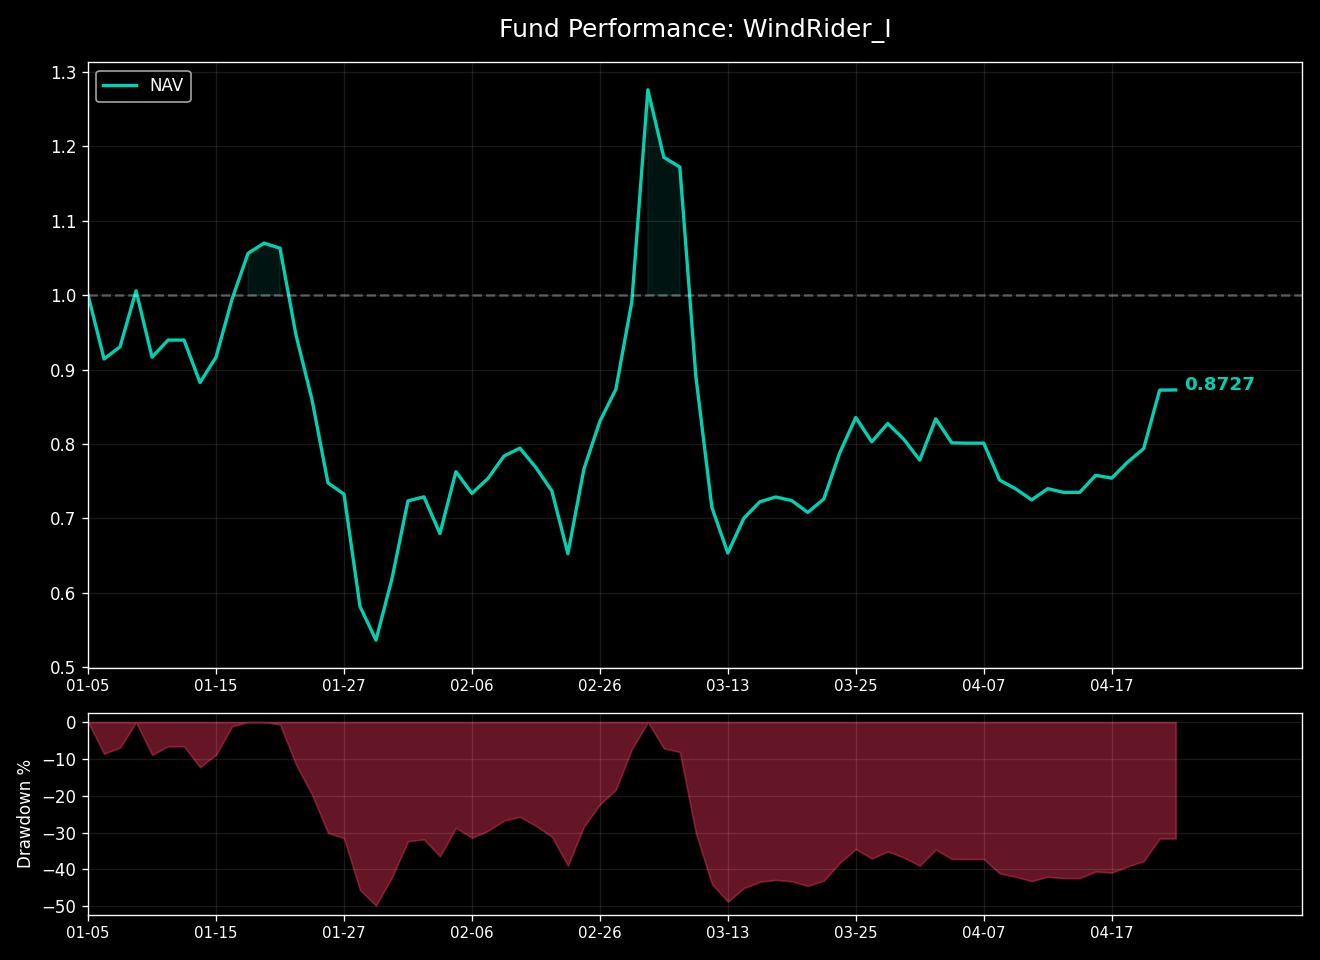
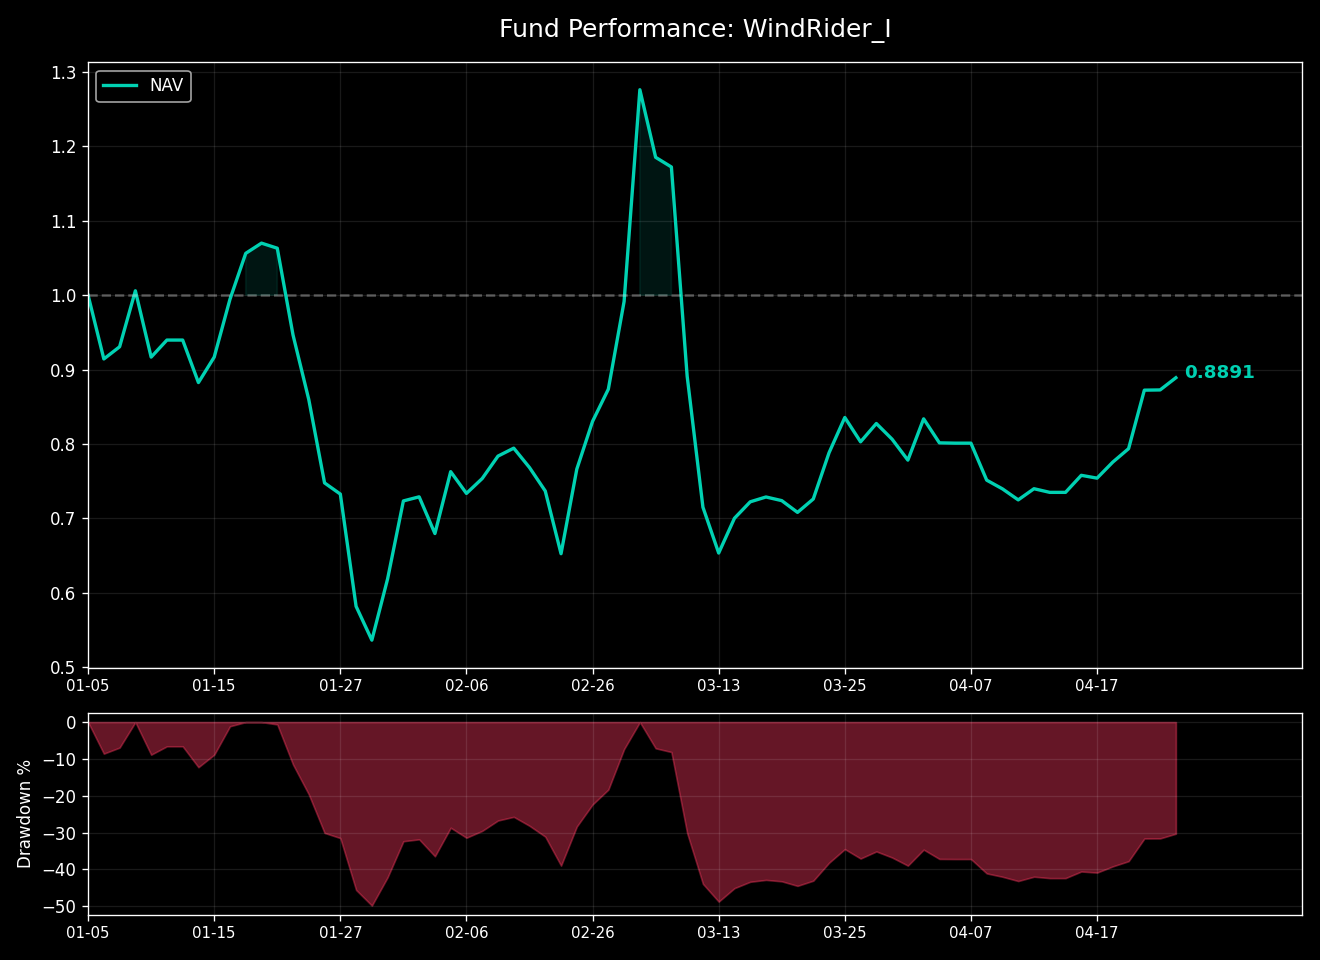
Updated Hugo site content

diff --git a/content/investment/windrider-1.md b/content/investment/windrider-1.md
@@ -1,8 +1,8 @@
 +++
 title = "风舵1号 (WindRider I)  /// 指数"
 summary = "商品期货分形摆动策略，实盘最新净值与核心风险指标。"
-date = 2026-04-23T15:15:04+08:00
-lastmod = 2026-04-23T15:15:04+08:00
+date = 2026-04-24T15:15:03+08:00
+lastmod = 2026-04-24T15:15:03+08:00
 draft = false
 description = "商品期货分形摆动策略实盘"
 +++
@@ -15,24 +15,24 @@ description = "商品期货分形摆动策略实盘"
 
 ### 风舵1号 (WindRider I) &nbsp;&nbsp;<span style="color: #E63946; font-weight: bold;">/</span><span style="color: #F1A73E; font-weight: bold;">/</span><span style="color: #000091; font-weight: bold;">/</span>&nbsp;&nbsp; 指数
 商品期货分形摆动策略实盘<br>
-净值简报 <small>(截至: 2026-04-23)</small>
+净值简报 <small>(截至: 2026-04-24)</small>
 
 |  |  |
 | :--- | :--- |
 | **指数代码：** | WDR1.CTA |
 | **起步日期：** | 2026-01-05 |
-| **最新净值：** | 0.8727 |
-| **今日涨跌：** | +0.03% |
+| **最新净值：** | 0.8891 |
+| **今日涨跌：** | +1.88% |
 
 ===========================
 
 | 核心指标 | |
 | :--- | :--- |
-| **累计涨跌：** | -12.73% |
-| **年化收益：** | -36.88% |
+| **累计涨跌：** | -11.09% |
+| **年化收益：** | -32.54% |
 | **最大回撤：** | -49.85% |
-| **卡玛比率：** | -0.74 |
-| **策略状态：** | 已运行 109 天 |
+| **卡玛比率：** | -0.65 |
+| **策略状态：** | 已运行 110 天 |
 
 ### 净值曲线
 ![风舵1号净值曲线](/images/investment/windrider_nav.png)
